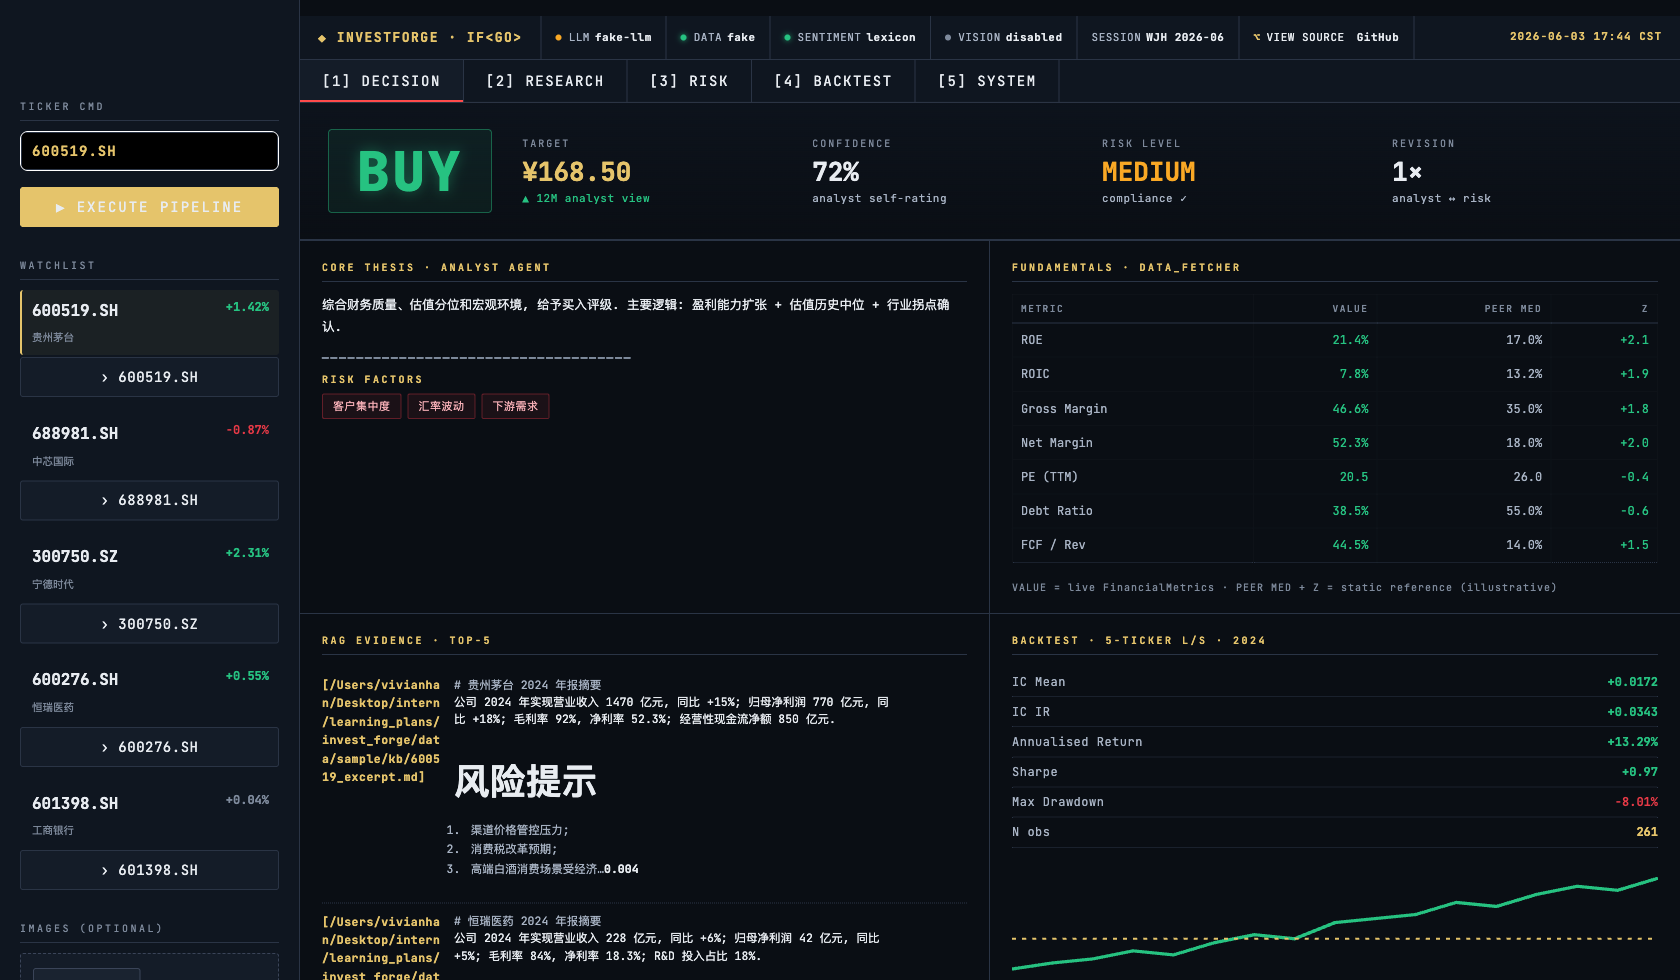
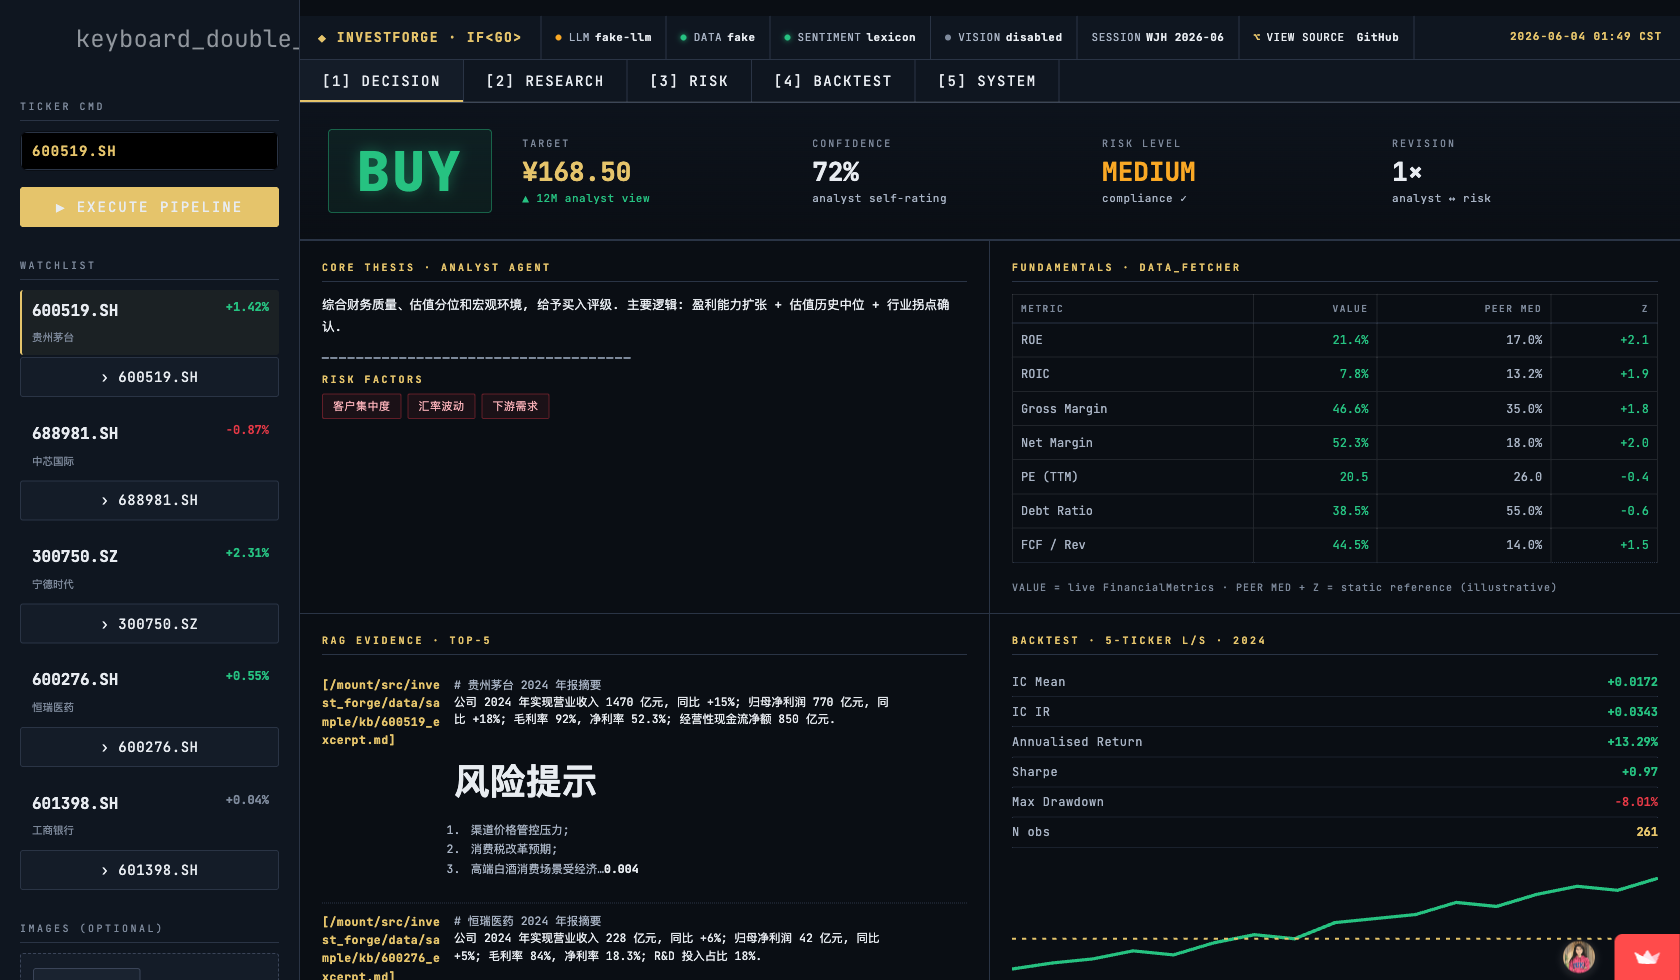
docs: live deploy — invest-forge.streamlit.app online + screenshots from cloud
Streamlit Community Cloud deploy is live at
https://invest-forge.streamlit.app — fake-mode public demo, no setup, no
API key, Bloomberg Terminal UI fully rendered, EXECUTE PIPELINE confirmed
end-to-end (BUY/¥168.50/72%/MEDIUM hero card in <8s cold + cached).

Screenshots
- ui_terminal_landing.png — first-visit 5-step guided tour
- ui_terminal_decision.png — BUY hero + 2x2 cell-panel grid
Both re-captured headless via Playwright against the LIVE cloud URL
(1680x980 viewport, dark theme baked in via .streamlit/config.toml).

README captions now cite invest-forge.streamlit.app as the screenshot
source, so a reviewer who clicks the Live Demo badge sees the exact same
pixels they just saw above the fold.

diff --git a/README.md b/README.md
@@ -15,12 +15,12 @@
 
 <p align="center">
   <img src="docs/screenshots/ui_terminal_decision.png" alt="InvestForge Bloomberg Terminal — Decision view" width="100%">
-  <br><sub><b>Decision view</b> — 54px mono BUY/HOLD/SELL hero · 4 KPIs · 2×2 cell-panel grid (thesis / fundamentals / RAG / backtest snapshot)</sub>
+  <br><sub><b>Decision view</b> — 54px mono BUY/HOLD/SELL hero · 4 KPIs · 2×2 cell-panel grid (thesis / fundamentals / RAG / backtest snapshot) · <i>captured live from <a href="https://invest-forge.streamlit.app">invest-forge.streamlit.app</a></i></sub>
 </p>
 
 <p align="center">
   <img src="docs/screenshots/ui_terminal_landing.png" alt="InvestForge — first-visit guided tour" width="100%">
-  <br><sub><b>First-time guided tour</b> — 5-step welcome card · pre-warmed cache for 5 A-share sample tickers · instant Watchlist clicks</sub>
+  <br><sub><b>First-time guided tour</b> — 5-step welcome card · pre-warmed cache for 5 A-share sample tickers · instant Watchlist clicks · <i>captured live from <a href="https://invest-forge.streamlit.app">invest-forge.streamlit.app</a></i></sub>
 </p>
 
 > **Try it live:** [`invest-forge.streamlit.app`](https://invest-forge.streamlit.app) (no setup, no API key)
